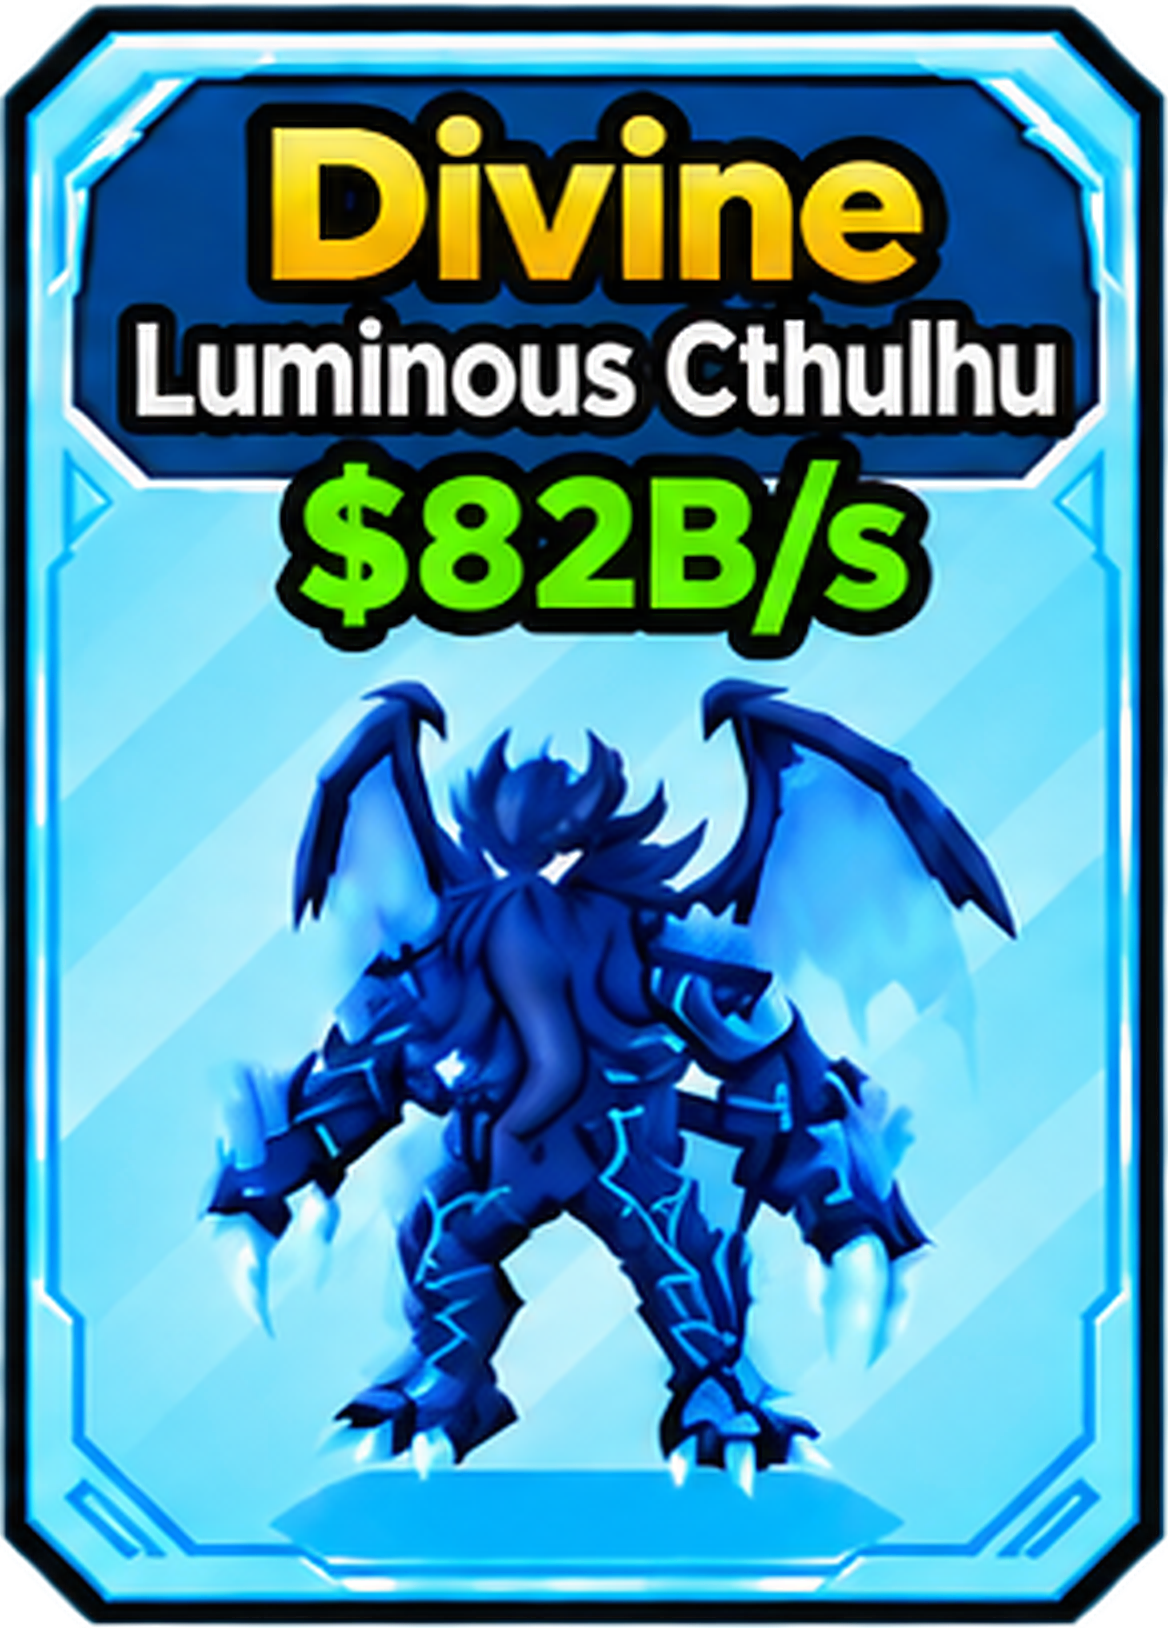
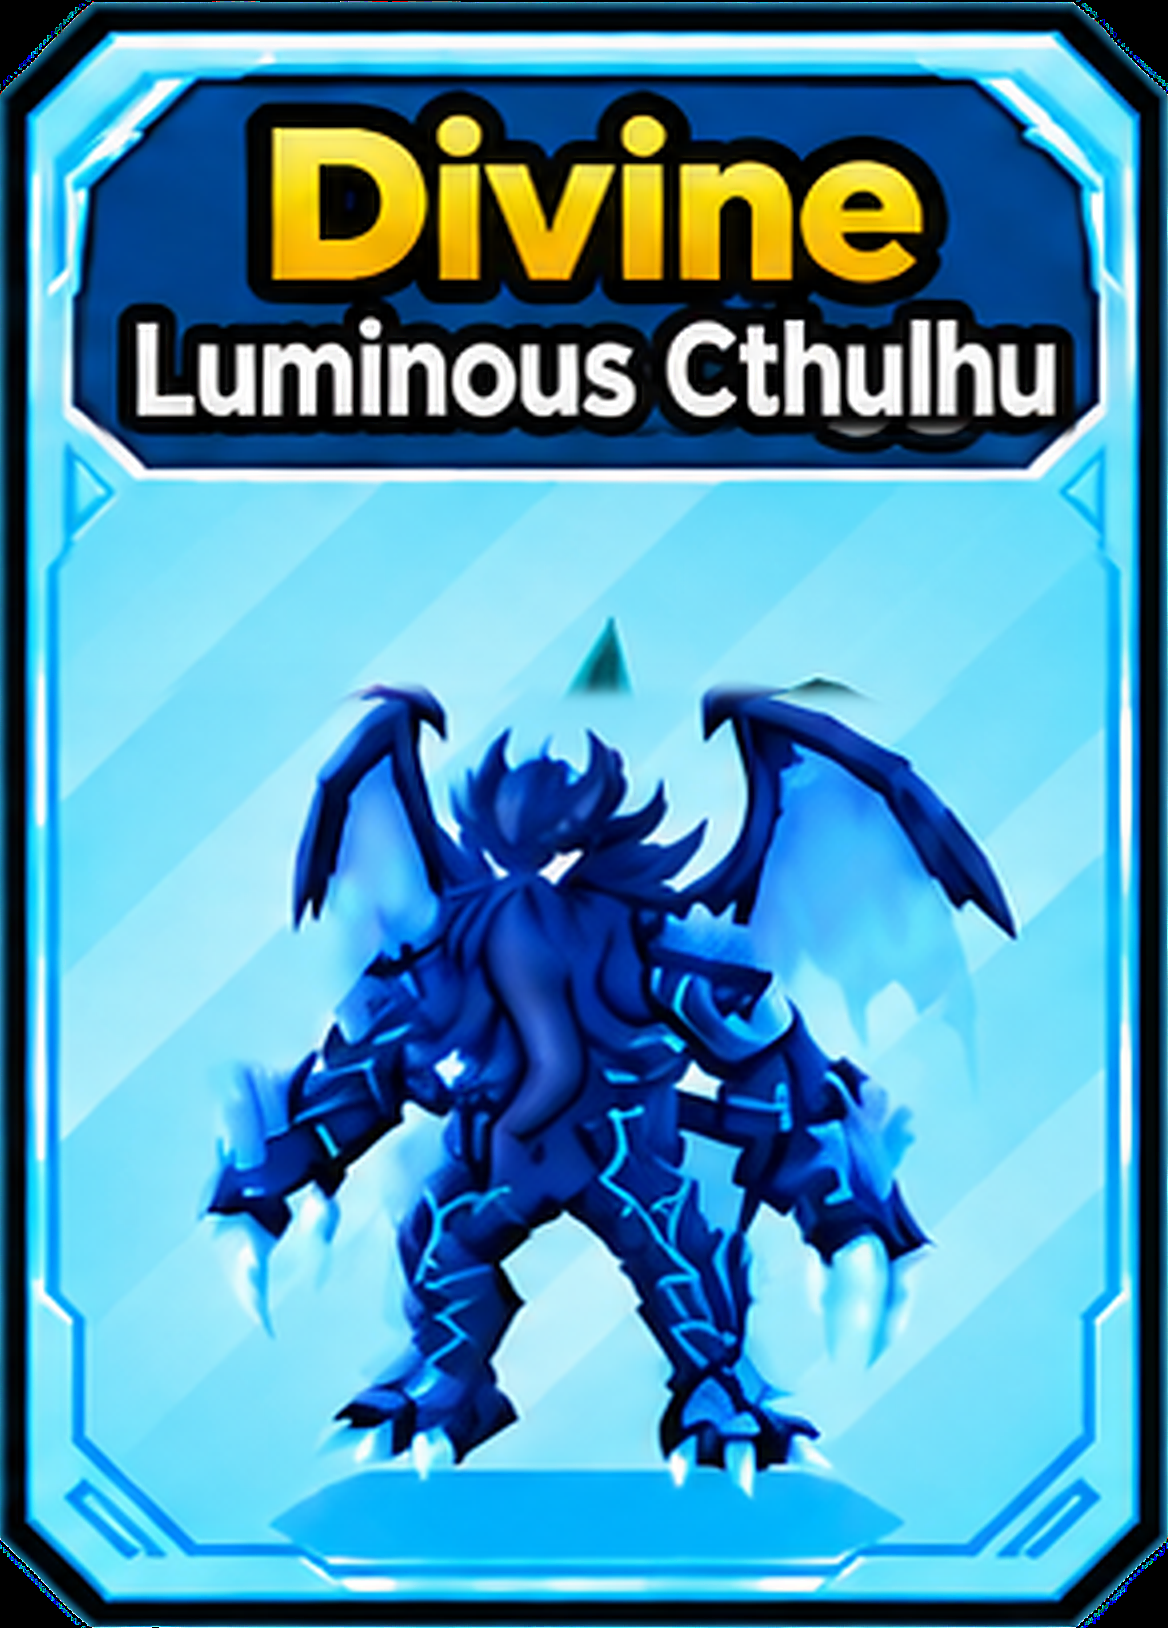
v9

Changed region(s): [[0.0, 0.0, 1.0, 1.0], [0.0616, 0.2457, 0.9555, 0.43]]

diff --git a/config.js b/config.js
@@ -1,1 +1,1 @@
-window.SAE_CONFIG={"version":"5.9-price-text-fix","cards":[{"id":"kitsune","name":"Kitsune","base":1800000000,"box":[22,93,285,405],"dynamic":true},{"id":"luminous_cthulhu","name":"Luminous Cthulhu","base":13000000000,"box":[320,92,292,407],"dynamic":true},{"id":"archangel","name":"ArchAngel","base":5000000000,"box":[625,92,286,407],"dynamic":true},{"id":"aetheron","name":"Aetheron","base":6900000000,"box":[922,92,293,407],"dynamic":true},{"id":"world_burner_cthulhu","name":"World Burner Cthulhu","base":5000000000,"box":[1224,92,294,407],"dynamic":true},{"id":"shattered_colossus","name":"Shattered Colossus","base":3500000000,"box":[21,515,286,407],"dynamic":true},{"id":"nightflame","name":"Nightflame","base":3000000000,"box":[320,516,293,407],"dynamic":true},{"id":"luminous_eggs","name":"Luminous Eggs","base":null,"box":[625,516,285,406],"dynamic":false},{"id":"cthulhu","name":"Cthulhu","base":5000000000,"box":[923,516,292,406],"dynamic":true},{"id":"mecha_dreadscale","name":"Mecha Dreadscale","base":4000000000,"box":[1230,516,285,406],"dynamic":true}],"mutations":{"silver":{"label":"Silver","multiplier":1.2},"golden":{"label":"Golden","multiplier":2.5},"rainbow":{"label":"Rainbow","multiplier":3.5},"bloom":{"label":"Bloom","multiplier":1.25},"spirit_bloom":{"label":"Spirit Bloom","multiplier":2.5},"parasite":{"label":"Parasite","multiplier":3.0},"fractured":{"label":"Fractured","multiplier":2.75}},"backend":"https://steal-an-egg-overlay-backend.leducho1900.workers.dev","room":"sae_421045db4089999b697c52d464c44d3a"};
+window.SAE_CONFIG={"version":"5.10-no-price-bar","cards":[{"id":"kitsune","name":"Kitsune","base":1800000000,"box":[22,93,285,405],"dynamic":true},{"id":"luminous_cthulhu","name":"Luminous Cthulhu","base":13000000000,"box":[320,92,292,407],"dynamic":true},{"id":"archangel","name":"ArchAngel","base":5000000000,"box":[625,92,286,407],"dynamic":true},{"id":"aetheron","name":"Aetheron","base":6900000000,"box":[922,92,293,407],"dynamic":true},{"id":"world_burner_cthulhu","name":"World Burner Cthulhu","base":5000000000,"box":[1224,92,294,407],"dynamic":true},{"id":"shattered_colossus","name":"Shattered Colossus","base":3500000000,"box":[21,515,286,407],"dynamic":true},{"id":"nightflame","name":"Nightflame","base":3000000000,"box":[320,516,293,407],"dynamic":true},{"id":"luminous_eggs","name":"Luminous Eggs","base":null,"box":[625,516,285,406],"dynamic":false},{"id":"cthulhu","name":"Cthulhu","base":5000000000,"box":[923,516,292,406],"dynamic":true},{"id":"mecha_dreadscale","name":"Mecha Dreadscale","base":4000000000,"box":[1230,516,285,406],"dynamic":true}],"mutations":{"silver":{"label":"Silver","multiplier":1.2},"golden":{"label":"Golden","multiplier":2.5},"rainbow":{"label":"Rainbow","multiplier":3.5},"bloom":{"label":"Bloom","multiplier":1.25},"spirit_bloom":{"label":"Spirit Bloom","multiplier":2.5},"parasite":{"label":"Parasite","multiplier":3.0},"fractured":{"label":"Fractured","multiplier":2.75}},"backend":"https://steal-an-egg-overlay-backend.leducho1900.workers.dev","room":"sae_421045db4089999b697c52d464c44d3a"};

diff --git a/control.html b/control.html
@@ -3,7 +3,7 @@
 <head>
 <meta charset="utf-8"><meta name="viewport" content="width=device-width,initial-scale=1">
 <meta http-equiv="Cache-Control" content="no-cache, no-store, must-revalidate">
-<title>Steal An Egg Control V5.9</title>
+<title>Steal An Egg Control V5.10</title>
 <style>
 *{box-sizing:border-box}
 body{margin:0;background:#0b0d11;color:#fff;font-family:Arial,Helvetica,sans-serif}
@@ -49,7 +49,7 @@ button{border:0;border-radius:10px;padding:10px 13px;font-weight:900;cursor:poin
 @media(max-width:800px){.grid{grid-template-columns:1fr}.muts{grid-template-columns:repeat(2,1fr)}}
 </style>
 </head><body><main>
-<h1>🥚 Steal An Egg Control V5.9 — FIXED</h1>
+<h1>🥚 Steal An Egg Control V5.10 — FIXED</h1>
 <div class="sub"><span class="syncstatus" id="syncStatus">● Đang kiểm tra D1...</span> 
 Weight nhập <b>1–1000</b>. <b>Weight 1 = đúng tiền gốc</b>; tăng Weight thì tự nhân theo đường cong size.
 Mutation cộng bonus theo hệ số. Weight/Mutation tự tính tiền. Đồng bộ qua Cloudflare D1, không dùng Cache API. Weight/Mutation/Bật-Tắt/x2–x10 cập nhật chung một state; x1 không hiện nhãn, Luminous Eggs không có nhãn số lượng.
@@ -481,7 +481,7 @@ allOn.onclick=()=>{for(const c of CFG.cards)state.cards[c.id].enabled=true;saveA
 allOff.onclick=()=>{for(const c of CFG.cards)state.cards[c.id].enabled=false;saveAndPublish()};
 reset.onclick=()=>{for(const c of CFG.cards){state.cards[c.id].weight=1;state.cards[c.id].mutations=[];state.cards[c.id].qty=1}saveAndPublish()};
 copyLink.onclick=async()=>{
- const u=new URL("index.html?v=59",location.href).href;
+ const u=new URL("index.html?v=510",location.href).href;
  try{await navigator.clipboard.writeText(u);copyLink.textContent="ĐÃ COPY";setTimeout(()=>copyLink.textContent="Copy Overlay Link",1200)}
  catch(_e){prompt("Copy link Overlay:",u)}
 };

diff --git a/index.html b/index.html
@@ -4,7 +4,7 @@
 <meta charset="utf-8">
 <meta name="viewport" content="width=device-width,initial-scale=1">
 <meta http-equiv="Cache-Control" content="no-cache, no-store, must-revalidate">
-<title>Steal An Egg Overlay V5.9 PRICE TEXT FIX</title>
+<title>Steal An Egg Overlay V5.10 NO PRICE BAR</title>
 <style>
 *{box-sizing:border-box}
 html,body{margin:0;width:100%;height:100%;background:transparent!important;overflow:hidden}
@@ -67,7 +67,15 @@ body{font-family:Arial,Helvetica,sans-serif}
   animation:none !important;
 }
 .pet-pixels{
-  display:none !important;
+  position:absolute;
+  inset:0;
+  width:100%;
+  height:100%;
+  object-fit:contain;
+  z-index:3;
+  display:block !important;
+  pointer-events:none;
+  user-select:none;
 }
 .pet-aura{
   position:absolute;
@@ -134,28 +142,14 @@ body{font-family:Arial,Helvetica,sans-serif}
 }
 /* Chỉ che dòng tiền CŨ trên giao diện. File PNG gốc không bị chỉnh sửa. */
 .price-cover{
-  position:absolute;
-  left:1.2%;
-  right:1.2%;
-  top:24.9%;
-  height:15.2%;
-  z-index:30;
-  background:
-    repeating-linear-gradient(
-      135deg,
-      rgba(255,255,255,.11) 0 10px,
-      rgba(255,255,255,0) 10px 25px
-    ),
-    linear-gradient(180deg,#b7f2ff 0%,#9fe7f7 100%);
-  border-radius:2px;
-  pointer-events:none;
+  display:none !important;
 }
 .price-text{
   position:absolute;
-  left:2.8%;
-  right:2.8%;
-  top:26.0%;
-  height:13.4%;
+  left:3.0%;
+  right:3.0%;
+  top:26.4%;
+  height:12.8%;
   z-index:31;
   display:flex;
   align-items:center;
@@ -164,7 +158,7 @@ body{font-family:Arial,Helvetica,sans-serif}
   color:#35B900;
   font-family:"Arial Black","DejaVu Sans",Arial,sans-serif;
   font-weight:1000;
-  font-size:15.6cqw;
+  font-size:15.4cqw;
   line-height:.94;
   letter-spacing:-.035em;
   white-space:nowrap;
